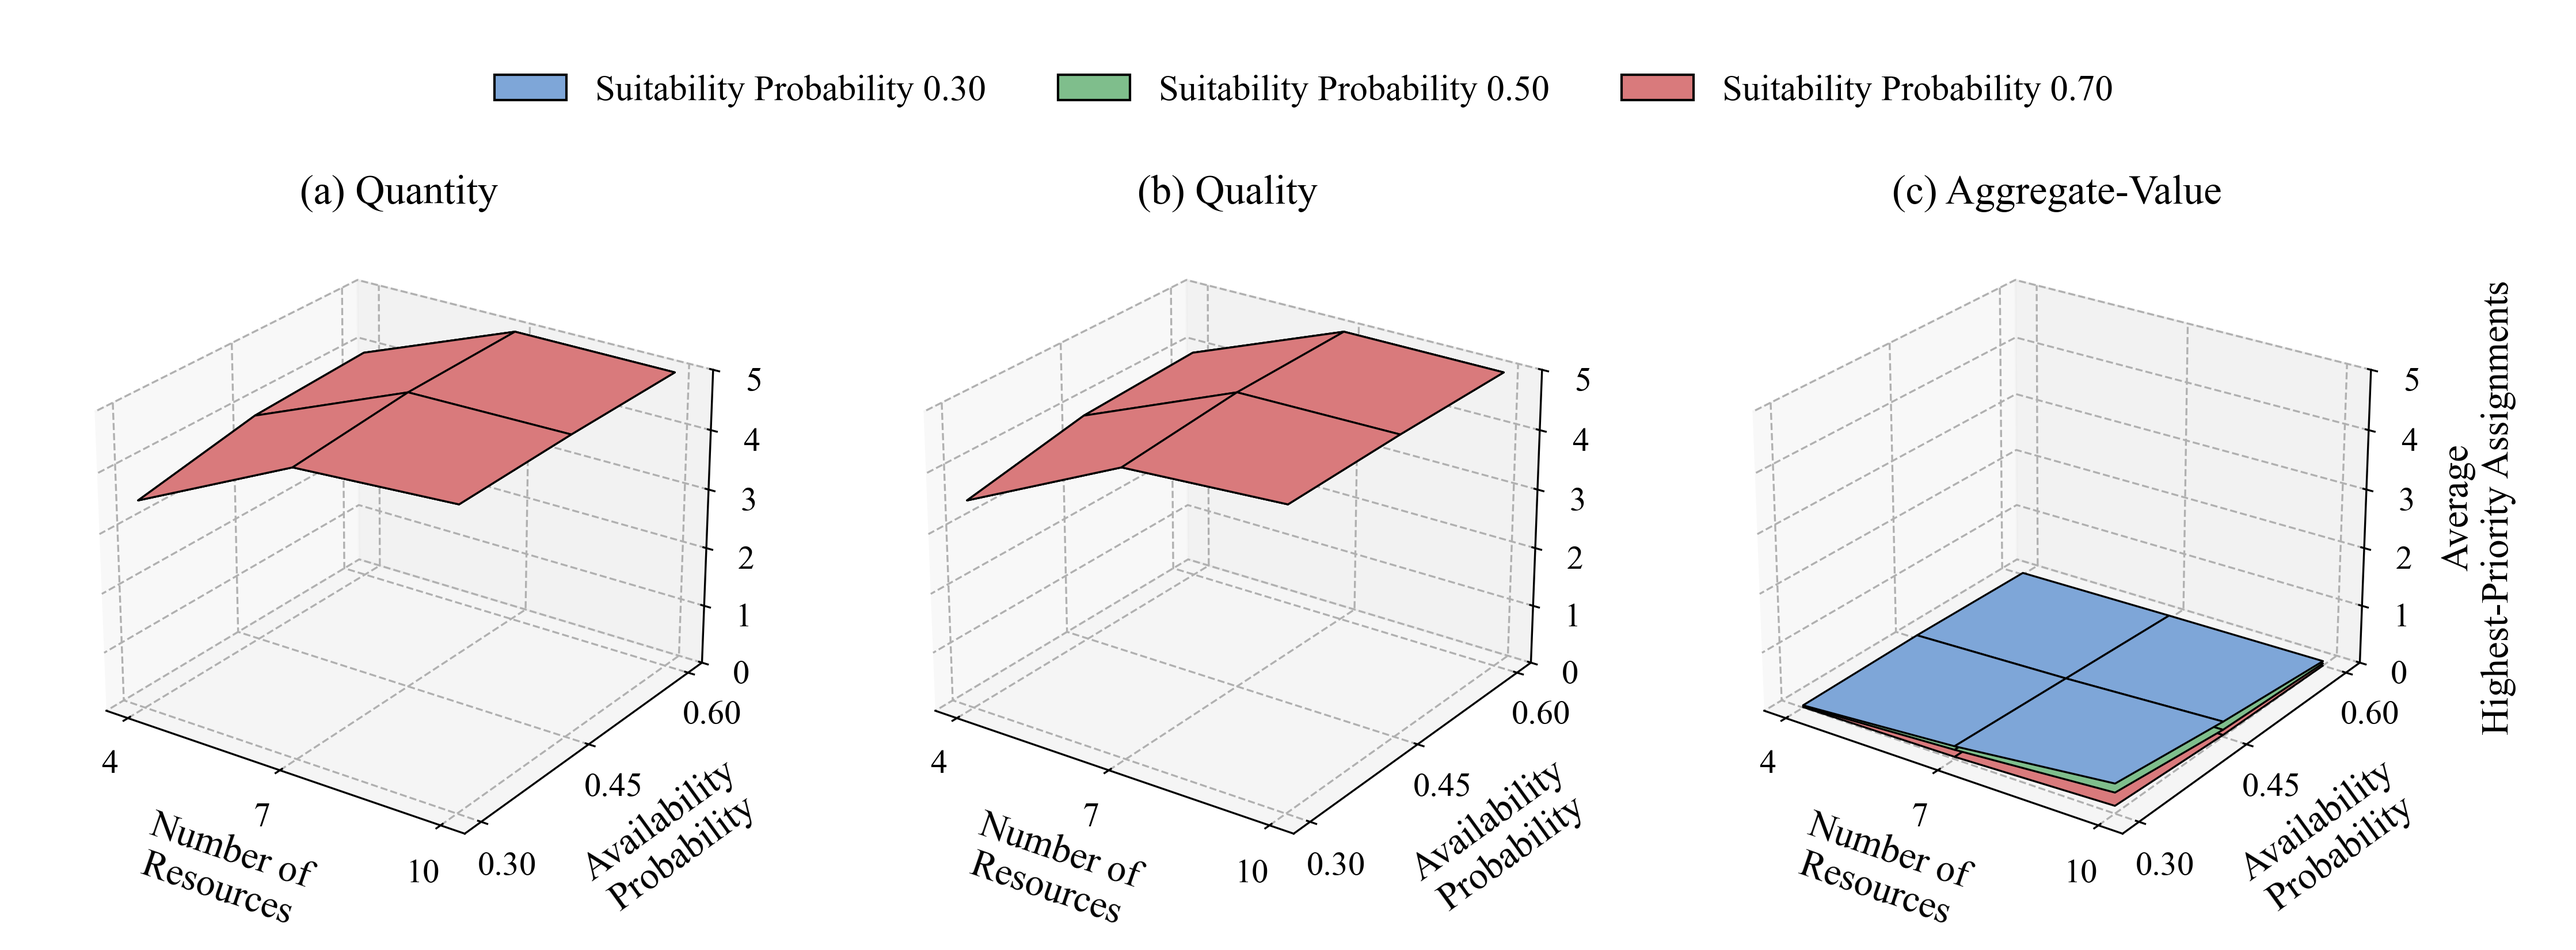
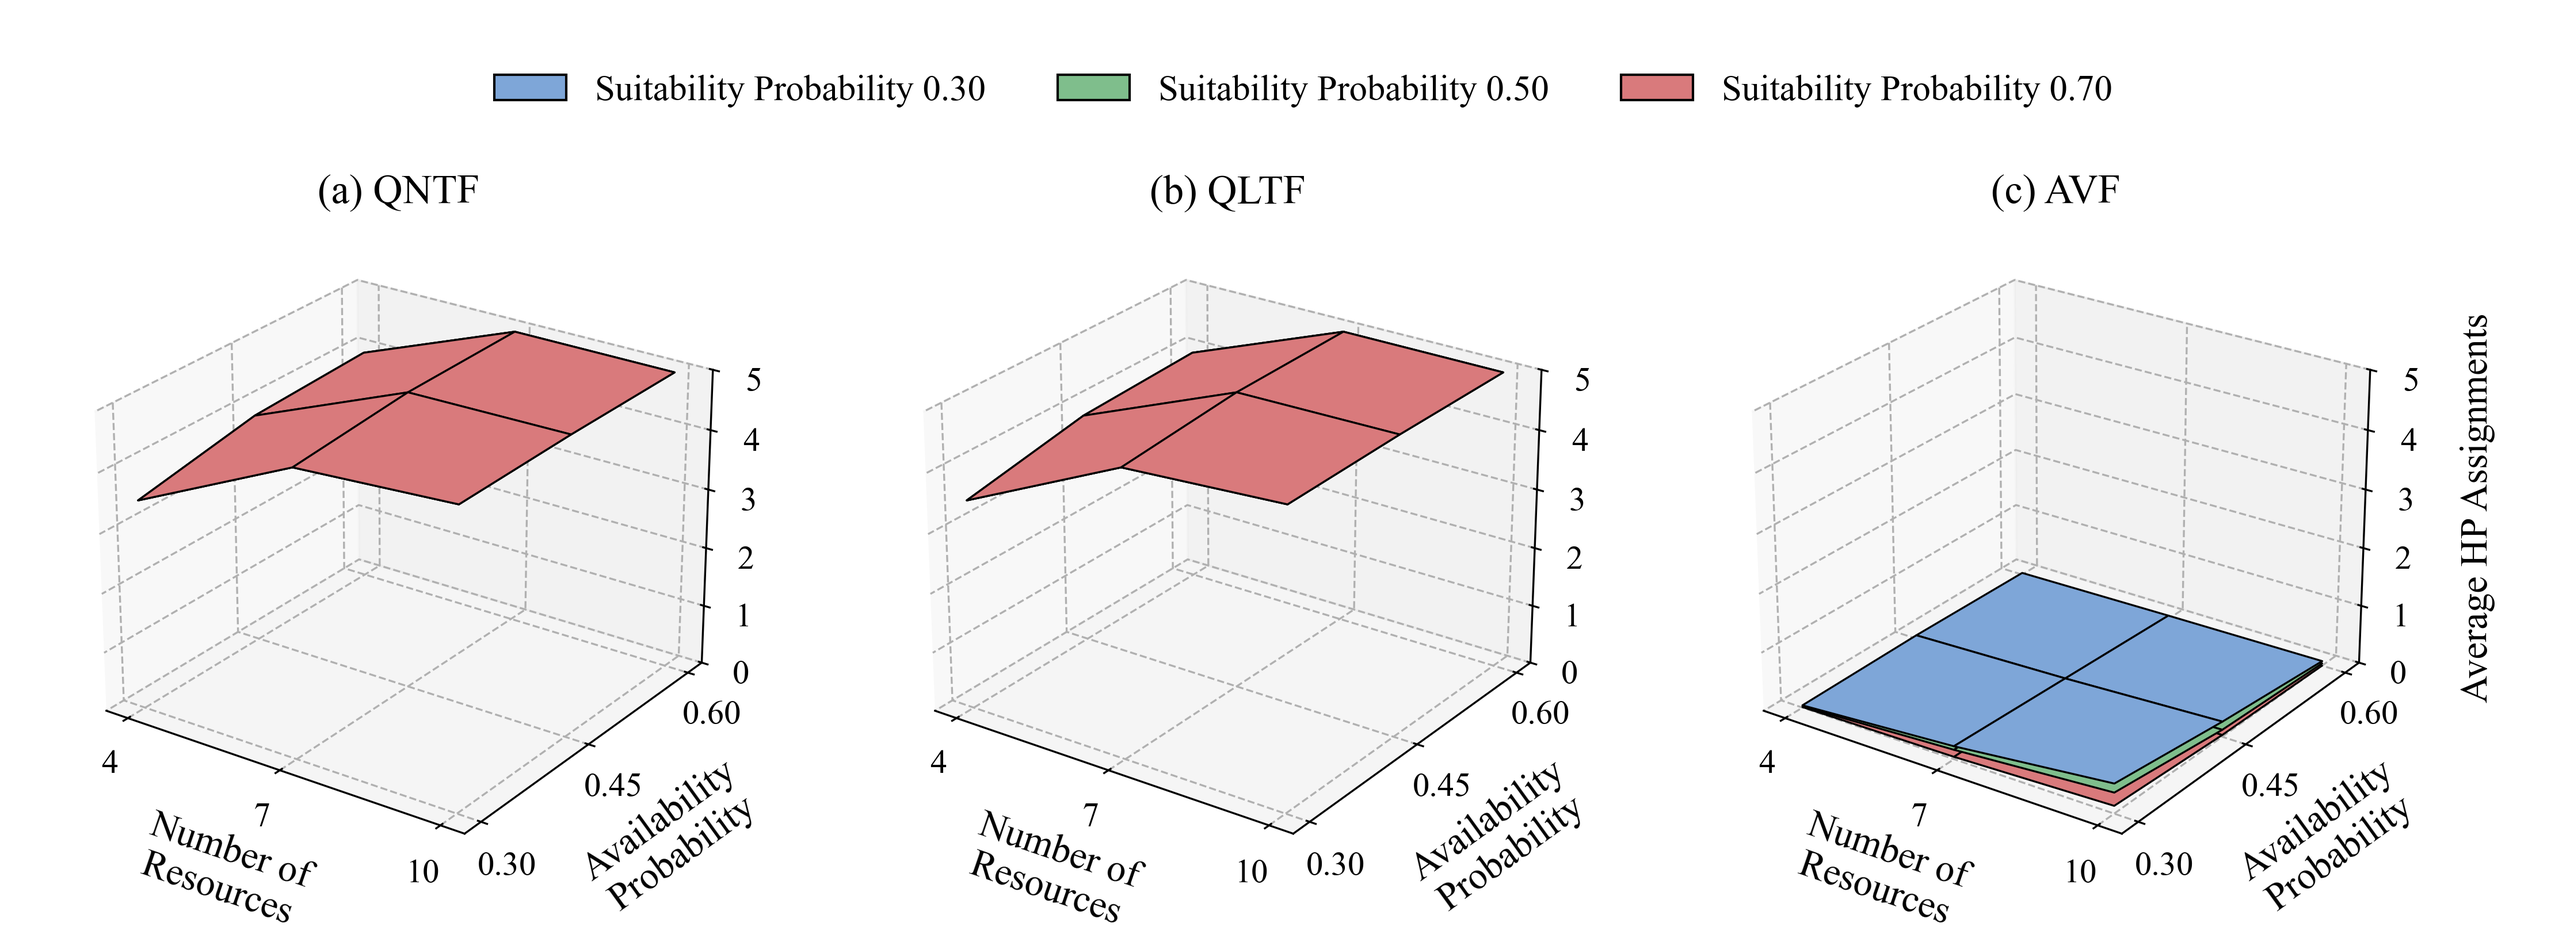
Align formulation labels in figures

diff --git a/src/visualization/plot_ieee33_number_of_resources_analysis.py b/src/visualization/plot_ieee33_number_of_resources_analysis.py
@@ -55,7 +55,7 @@ def save_panel_figure(summary):
                 "qual_highest_priority",
                 "w_highest_priority",
             ],
-            "(a) Highest-Priority Assignments",
+            "(a) HP Assignments",
             "Average",
         ),
         (
@@ -64,7 +64,7 @@ def save_panel_figure(summary):
                 "qual_secondary_priority",
                 "w_secondary_priority",
             ],
-            "(b) Secondary-Priority Assignments",
+            "(b) SP Assignments",
             "Average per Class",
         ),
         (
@@ -90,9 +90,9 @@ def save_panel_figure(summary):
     ):
         plot_df = summary[columns].rename(  
             columns={
-                columns[0]: "Quantity",
-                columns[1]: "Quality",
-                columns[2]: "Aggregate-Value",
+                columns[0]: "QNTF",
+                columns[1]: "QLTF",
+                columns[2]: "AVF",
             }
         )
 

diff --git a/src/visualization/plot_ieee118_number_of_resources_analysis.py b/src/visualization/plot_ieee118_number_of_resources_analysis.py
@@ -55,7 +55,7 @@ def save_panel_figure(summary):
                 "qual_highest_priority",
                 "w_highest_priority",
             ],
-            "(a) Highest-Priority Assignments",
+            "(a) HP Assignments",
             "Average",
         ),
         (
@@ -64,7 +64,7 @@ def save_panel_figure(summary):
                 "qual_secondary_priority",
                 "w_secondary_priority",
             ],
-            "(b) Secondary-Priority Assignments",
+            "(b) SP Assignments",
             "Average per Class",
         ),
         (
@@ -90,9 +90,9 @@ def save_panel_figure(summary):
     ):
         plot_df = summary[columns].rename(
             columns={
-                columns[0]: "Quantity",
-                columns[1]: "Quality",
-                columns[2]: "Aggregate-Value",
+                columns[0]: "QNTF",
+                columns[1]: "QLTF",
+                columns[2]: "AVF",
             }
         )
 

diff --git a/src/visualization/plot_ieee33_availability_probability_analysis.py b/src/visualization/plot_ieee33_availability_probability_analysis.py
@@ -57,7 +57,7 @@ def save_panel_figure(summary):
                 "qual_highest_priority",
                 "w_highest_priority",
             ],
-            "(a) Highest-Priority Assignments",
+            "(a) HP Assignments",
             "Average",
         ),
         (
@@ -66,7 +66,7 @@ def save_panel_figure(summary):
                 "qual_secondary_priority",
                 "w_secondary_priority",
             ],
-            "(b) Secondary-Priority Assignments",
+            "(b) SP Assignments",
             "Average per Class",
         ),
         (
@@ -92,9 +92,9 @@ def save_panel_figure(summary):
     ):
         plot_df = summary[columns].rename(
             columns={
-                columns[0]: "Quantity",
-                columns[1]: "Quality",
-                columns[2]: "Aggregate-Value",
+                columns[0]: "QNTF",
+                columns[1]: "QLTF",
+                columns[2]: "AVF",
             }
         )
 

diff --git a/src/visualization/plot_ieee33_suitability_probability_analysis.py b/src/visualization/plot_ieee33_suitability_probability_analysis.py
@@ -57,7 +57,7 @@ def save_panel_figure(summary):
                 "qual_highest_priority",
                 "w_highest_priority",
             ],
-            "(a) Highest-Priority Assignments",
+            "(a) HP Assignments",
             "Average",
         ),
         (
@@ -66,7 +66,7 @@ def save_panel_figure(summary):
                 "qual_secondary_priority",
                 "w_secondary_priority",
             ],
-            "(b) Secondary-Priority Assignments",
+            "(b) SP Assignments",
             "Average per Class",
         ),
         (
@@ -92,9 +92,9 @@ def save_panel_figure(summary):
     ):
         plot_df = summary[columns].rename(
             columns={
-                columns[0]: "Quantity",
-                columns[1]: "Quality",
-                columns[2]: "Aggregate-Value",
+                columns[0]: "QNTF",
+                columns[1]: "QLTF",
+                columns[2]: "AVF",
             }
         )
 

diff --git a/src/visualization/plot_ieee33_full_factorial_analysis.py b/src/visualization/plot_ieee33_full_factorial_analysis.py
@@ -53,15 +53,15 @@ def save_highest_priority_full_factorial_3d_figure(summary):
     formulation_specs = [
         (
             "qty_highest_priority",
-            "(a) Quantity",
+            "(a) QNTF",
         ),
         (
             "qual_highest_priority",
-            "(b) Quality",
+            "(b) QLTF",
         ),
         (
             "w_highest_priority",
-            "(c) Aggregate-Value",
+            "(c) AVF",
         ),
     ]
 
@@ -242,7 +242,7 @@ def save_highest_priority_full_factorial_3d_figure(summary):
     fig.text(
         0.925,
         0.60,
-        "Average\nHighest-Priority Assignments",
+        "Average HP Assignments",
         rotation=90,
         va="center",
         ha="center",

diff --git a/src/visualization/plot_ieee33_availability_probability_suitability_probability_analysis.py b/src/visualization/plot_ieee33_availability_probability_suitability_probability_analysis.py
@@ -54,9 +54,9 @@ def save_highest_priority_heatmaps(summary):
     """
 
     formulation_specs = [
-        ("qty_highest_priority", "(a) Quantity"),
-        ("qual_highest_priority", "(b) Quality"),
-        ("w_highest_priority", "(c) Aggregate-Value"),
+        ("qty_highest_priority", "(a) QNTF"),
+        ("qual_highest_priority", "(b) QLTF"),
+        ("w_highest_priority", "(c) AVF"),
     ]
 
     fig, axes = plt.subplots(
@@ -213,7 +213,7 @@ def save_highest_priority_heatmaps(summary):
     )
 
     colorbar.set_label(
-        "Average Highest-Priority Assignments",
+        "Average HP Assignments",
         fontsize=15,
         labelpad=25,
     )

diff --git a/src/visualization/plot_ieee33_number_of_resources_availability_probability_analysis.py b/src/visualization/plot_ieee33_number_of_resources_availability_probability_analysis.py
@@ -54,9 +54,9 @@ def save_highest_priority_heatmaps(summary):
     """
 
     formulation_specs = [
-        ("qty_highest_priority", "(a) Quantity"),
-        ("qual_highest_priority", "(b) Quality"),
-        ("w_highest_priority", "(c) Aggregate-Value"),
+        ("qty_highest_priority", "(a) QNTF"),
+        ("qual_highest_priority", "(b) QLTF"),
+        ("w_highest_priority", "(c) AVF"),
     ]
 
     fig, axes = plt.subplots(
@@ -214,7 +214,7 @@ def save_highest_priority_heatmaps(summary):
     )
 
     colorbar.set_label(
-        "Average Highest-Priority Assignments",
+        "Average HP Assignments",
         fontsize=15,
         labelpad=25,
     )

diff --git a/src/visualization/plot_ieee33_number_of_resources_suitability_probability_analysis.py b/src/visualization/plot_ieee33_number_of_resources_suitability_probability_analysis.py
@@ -54,9 +54,9 @@ def save_highest_priority_heatmaps(summary):
     """
 
     formulation_specs = [
-        ("qty_highest_priority", "(a) Quantity"),
-        ("qual_highest_priority", "(b) Quality"),
-        ("w_highest_priority", "(c) Aggregate-Value"),
+        ("qty_highest_priority", "(a) QNTF"),
+        ("qual_highest_priority", "(b) QLTF"),
+        ("w_highest_priority", "(c) AVF"),
     ]
 
     fig, axes = plt.subplots(
@@ -213,7 +213,7 @@ def save_highest_priority_heatmaps(summary):
     )
 
     colorbar.set_label(
-        "Average Highest-Priority Assignments",
+        "Average HP Assignments",
         fontsize=15,
         labelpad=25,
     )

diff --git a/src/utilities/plot_config.py b/src/utilities/plot_config.py
@@ -18,15 +18,15 @@ SCARCITY_LABELS = {
 # =========================================================
 
 MODEL_COLORS = {
-    "Quantity": "#7EA6D8",
-    "Quality": "#7FBE8C",
-    "Aggregate-Value": "#D97A7C",
+    "QNTF": "#7EA6D8",
+    "QLTF": "#7FBE8C",
+    "AVF": "#D97A7C",
 }
 
 MODEL_HATCHES = {
-    "Quantity": "///",
-    "Quality": "\\\\\\",
-    "Aggregate-Value": "xxx",
+    "QNTF": "///",
+    "QLTF": "\\\\\\",
+    "AVF": "xxx",
 }
 
 
